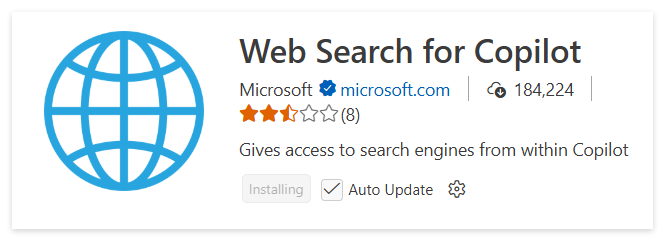
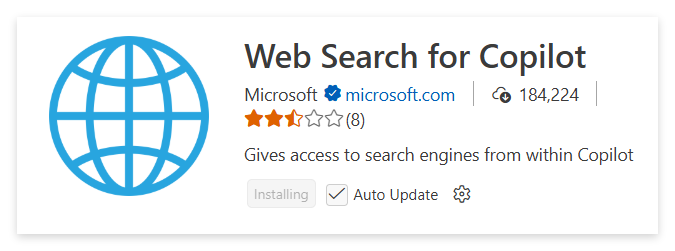
Reduce web search extension screenshot size

diff --git a/02-add-web-search.md b/02-add-web-search.md
@@ -36,7 +36,7 @@ and search for **Web Search for Copilot**.
 Check that the extension is published by **Microsoft**, then install it.
 You can also open its [VS Code Marketplace page](https://marketplace.visualstudio.com/items?itemName=ms-vscode.vscode-websearchforcopilot).
 
-<a href="assets/02-extension-listing.png"><img src="assets/screenshots/02-extension-listing.png" alt="The Web Search for Copilot extension by Microsoft" width="665"></a>
+<a href="assets/02-extension-listing.png"><img src="assets/screenshots/02-extension-listing.png" alt="The Web Search for Copilot extension by Microsoft" width="484"></a>
 
 ## Create a free Tavily account
 
